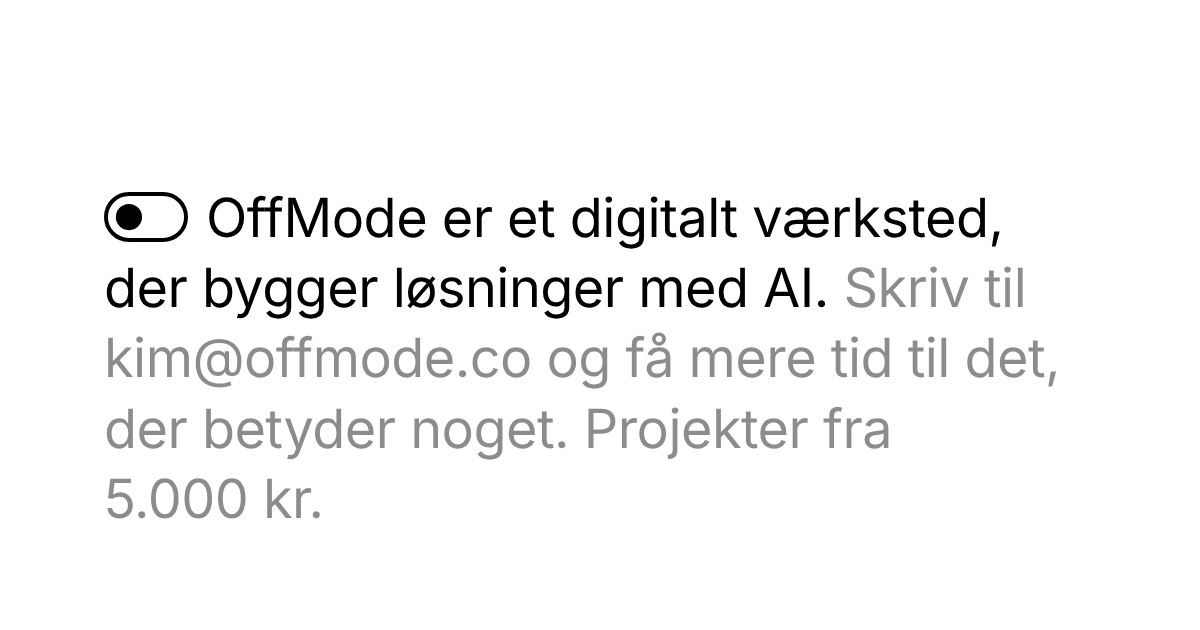
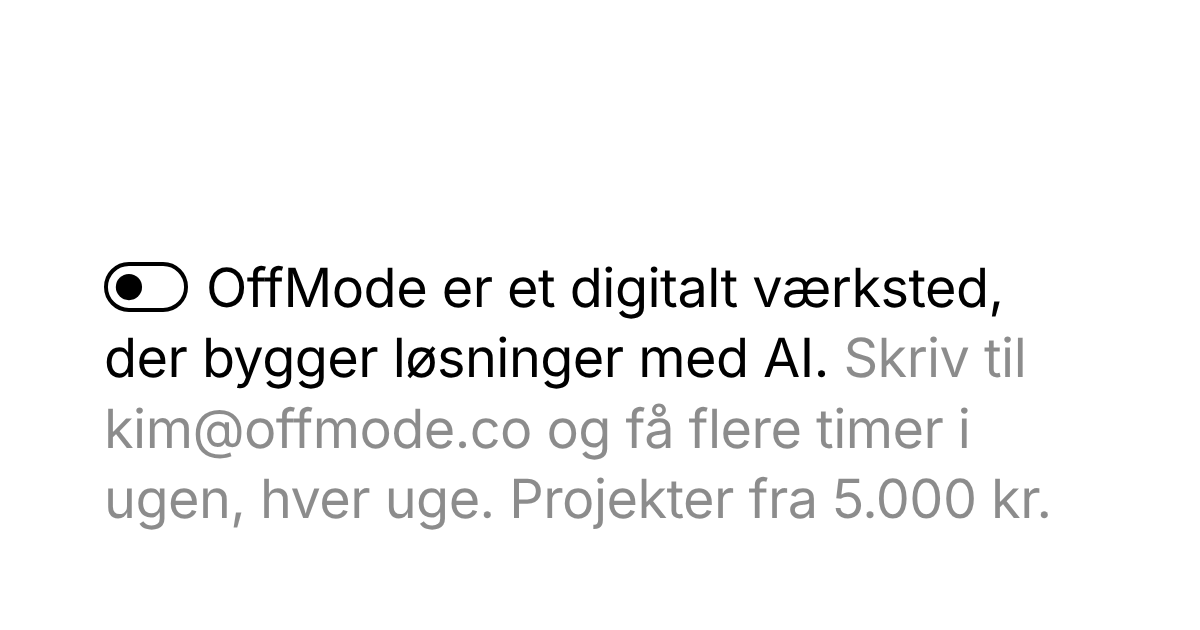
Intro: og få flere timer i ugen, hver uge
Claude-Session: https://claude.ai/code/session_01JQ91VV55D3t8mimoyPje74

Changed region(s): [[0.0617, 0.3016, 0.8942, 0.7238], [0.0925, 0.754, 0.8633, 0.8444]]

diff --git a/index.html b/index.html
@@ -4,17 +4,17 @@
 <meta charset="utf-8">
 <meta name="viewport" content="width=device-width, initial-scale=1">
 <title>OffMode</title>
-<meta name="description" content="OffMode er et digitalt værksted, der bygger løsninger med AI. Skriv til kim@offmode.co og få mere tid til det, der betyder noget. Projekter fra 5.000 kr.">
+<meta name="description" content="OffMode er et digitalt værksted, der bygger løsninger med AI. Skriv til kim@offmode.co og få flere timer i ugen, hver uge. Projekter fra 5.000 kr.">
 <meta property="og:type" content="website">
 <meta property="og:site_name" content="OffMode">
 <meta property="og:locale" content="da_DK">
 <meta property="og:url" content="https://offmode.co/">
 <meta property="og:title" content="OffMode">
-<meta property="og:description" content="OffMode er et digitalt værksted, der bygger løsninger med AI. Skriv til kim@offmode.co og få mere tid til det, der betyder noget. Projekter fra 5.000 kr.">
+<meta property="og:description" content="OffMode er et digitalt værksted, der bygger løsninger med AI. Skriv til kim@offmode.co og få flere timer i ugen, hver uge. Projekter fra 5.000 kr.">
 <meta property="og:image" content="https://offmode.co/og.png">
 <meta property="og:image:width" content="1200">
 <meta property="og:image:height" content="630">
-<meta property="og:image:alt" content="OffMode er et digitalt værksted, der bygger løsninger med AI. Skriv til kim@offmode.co og få mere tid til det, der betyder noget. Projekter fra 5.000 kr.">
+<meta property="og:image:alt" content="OffMode er et digitalt værksted, der bygger løsninger med AI. Skriv til kim@offmode.co og få flere timer i ugen, hver uge. Projekter fra 5.000 kr.">
 <meta name="twitter:card" content="summary_large_image">
 <link rel="icon" href="favicon.png" type="image/png" sizes="64x64">
 <link rel="icon" href="favicon.svg" type="image/svg+xml">
@@ -101,7 +101,7 @@
 </head>
 <body>
 <main>
-  <h1 class="intro"><span class="mark"><svg viewBox="0 0 32 19" aria-hidden="true"><rect x="0.75" y="0.75" width="30.5" height="17.5" rx="8.75" fill="none" stroke="currentColor" stroke-width="1.5"/><circle cx="9.5" cy="9.5" r="5" fill="currentColor"/></svg>OffMode</span> er et digitalt værksted, der bygger løsninger med AI. Skriv til <a class="mail" href="mailto:kim@offmode.co?subject=Gratis%20snak&amp;body=Hej%20Kim%2C%0A%0AJeg%20bruger%20for%20meget%20tid%20p%C3%A5%20%E2%80%A6%0A%0A">kim@offmode.co</a> og få mere tid til det, der betyder noget. Projekter fra 5.000&nbsp;kr.</h1>
+  <h1 class="intro"><span class="mark"><svg viewBox="0 0 32 19" aria-hidden="true"><rect x="0.75" y="0.75" width="30.5" height="17.5" rx="8.75" fill="none" stroke="currentColor" stroke-width="1.5"/><circle cx="9.5" cy="9.5" r="5" fill="currentColor"/></svg>OffMode</span> er et digitalt værksted, der bygger løsninger med AI. Skriv til <a class="mail" href="mailto:kim@offmode.co?subject=Gratis%20snak&amp;body=Hej%20Kim%2C%0A%0AJeg%20bruger%20for%20meget%20tid%20p%C3%A5%20%E2%80%A6%0A%0A">kim@offmode.co</a> og få flere timer i ugen, hver uge. Projekter fra 5.000&nbsp;kr.</h1>
   <section>
     <div class="projects">
       <details>
